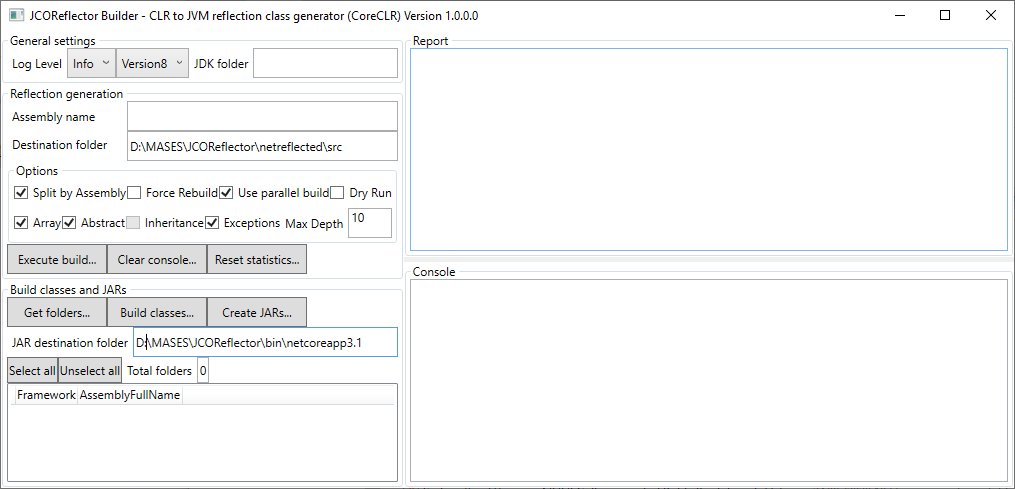
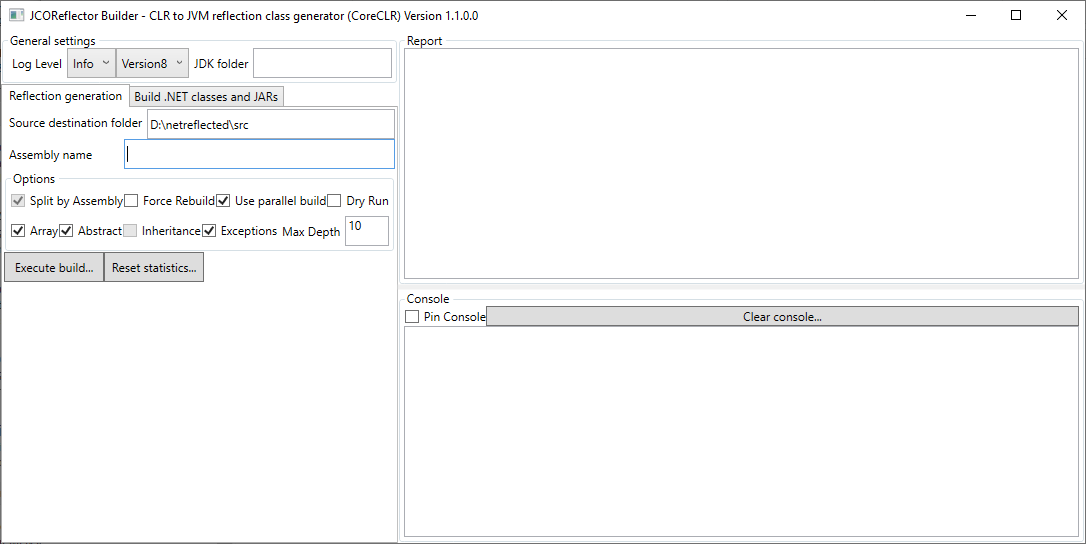
Updates on JCOReflector previews

diff --git a/README.md b/README.md
@@ -74,6 +74,7 @@ The reflector executable, available for both Framework and CoreCLR, is limited i
 
 - Only public Types are available
 - Classes and public accessible methods
+- Interface
 - Enum: enumeration and flags are available
 - .NET exception are translated and thrown in code
 - Static classes are managed
@@ -86,7 +87,6 @@ The reflector executable, available for both Framework and CoreCLR, is limited i
 ### Not implemented in reflector:
 
 - Out/Ref parameters: you need to write code using JCOBridge API
-- Interface
 - Inheritance
 - Generic types
 - Method decoration (Attributes)
@@ -115,7 +115,344 @@ For .NET Framework it is possible to execute:
 > dotnet run --framework net461 JCOReflector\JCOReflectorCore.csproj
 
 ![JCOReflector](/images/jcoreflector.png?raw=true "JCOReflector screenshot")
+![JCOReflector](/images/jcoreflector2.png?raw=true "JCOReflector screenshot")
 
 ## Reflected Assemblies
 
-The folder [netreflected](/netreflected/src) contains all reflected classes.
+The folder [netreflected](/netreflected/src) contains all reflected classes generated for **.NET** **Framework** and **Core**. Below the list of analyzed and reflected assemblies:
+
+### Framework
+
+> * PresentationFramework, Version=4.0.0.0, Culture=neutral, PublicKeyToken=31bf3856ad364e35
+> * mscorlib, Version=4.0.0.0, Culture=neutral, PublicKeyToken=b77a5c561934e089
+> * System.Xaml, Version=4.0.0.0, Culture=neutral, PublicKeyToken=b77a5c561934e089
+> * System, Version=4.0.0.0, Culture=neutral, PublicKeyToken=b77a5c561934e089
+> * System.Configuration, Version=4.0.0.0, Culture=neutral, PublicKeyToken=b03f5f7f11d50a3a
+> * System.Xml, Version=4.0.0.0, Culture=neutral, PublicKeyToken=b77a5c561934e089
+> * System.Data.SqlXml, Version=4.0.0.0, Culture=neutral, PublicKeyToken=b77a5c561934e089
+> * System.Security, Version=4.0.0.0, Culture=neutral, PublicKeyToken=b03f5f7f11d50a3a
+> * System.Core, Version=4.0.0.0, Culture=neutral, PublicKeyToken=b77a5c561934e089
+> * System.Numerics, Version=4.0.0.0, Culture=neutral, PublicKeyToken=b77a5c561934e089
+> * WindowsBase, Version=4.0.0.0, Culture=neutral, PublicKeyToken=31bf3856ad364e35
+> * Accessibility, Version=4.0.0.0, Culture=neutral, PublicKeyToken=b03f5f7f11d50a3a
+> * PresentationCore, Version=4.0.0.0, Culture=neutral, PublicKeyToken=31bf3856ad364e35
+> * UIAutomationTypes, Version=4.0.0.0, Culture=neutral, PublicKeyToken=31bf3856ad364e35
+> * System.Windows.Input.Manipulations, Version=4.0.0.0, Culture=neutral, PublicKeyToken=b77a5c561934e089
+> * UIAutomationProvider, Version=4.0.0.0, Culture=neutral, PublicKeyToken=31bf3856ad364e35
+> * System.Deployment, Version=4.0.0.0, Culture=neutral, PublicKeyToken=b03f5f7f11d50a3a
+> * System.Windows.Forms, Version=4.0.0.0, Culture=neutral, PublicKeyToken=b77a5c561934e089
+> * System.Drawing, Version=4.0.0.0, Culture=neutral, PublicKeyToken=b03f5f7f11d50a3a
+> * System.Runtime.Serialization.Formatters.Soap, Version=4.0.0.0, Culture=neutral, PublicKeyToken=b03f5f7f11d50a3a
+> * ReachFramework, Version=4.0.0.0, Culture=neutral, PublicKeyToken=31bf3856ad364e35
+> * System.Printing, Version=4.0.0.0, Culture=neutral, PublicKeyToken=31bf3856ad364e35
+> * PresentationUI, Version=4.0.0.0, Culture=neutral, PublicKeyToken=31bf3856ad364e35
+> * System.DirectoryServices, Version=4.0.0.0, Culture=neutral, PublicKeyToken=b03f5f7f11d50a3a
+> * System.ServiceModel, Version=4.0.0.0, Culture=neutral, PublicKeyToken=b77a5c561934e089
+> * System.ServiceModel.Internals, Version=4.0.0.0, Culture=neutral, PublicKeyToken=31bf3856ad364e35
+> * System.Runtime.Serialization, Version=4.0.0.0, Culture=neutral, PublicKeyToken=b77a5c561934e089
+> * SMDiagnostics, Version=4.0.0.0, Culture=neutral, PublicKeyToken=b77a5c561934e089
+> * System.IdentityModel, Version=4.0.0.0, Culture=neutral, PublicKeyToken=b77a5c561934e089
+> * System.Web.ApplicationServices, Version=4.0.0.0, Culture=neutral, PublicKeyToken=31bf3856ad364e35
+> * System.Transactions, Version=4.0.0.0, Culture=neutral, PublicKeyToken=b77a5c561934e089
+> * System.EnterpriseServices, Version=4.0.0.0, Culture=neutral, PublicKeyToken=b03f5f7f11d50a3a
+> * System.Runtime.Remoting, Version=4.0.0.0, Culture=neutral, PublicKeyToken=b77a5c561934e089
+> * System.Web, Version=4.0.0.0, Culture=neutral, PublicKeyToken=b03f5f7f11d50a3a
+> * System.Data, Version=4.0.0.0, Culture=neutral, PublicKeyToken=b77a5c561934e089
+> * System.Runtime.Caching, Version=4.0.0.0, Culture=neutral, PublicKeyToken=b03f5f7f11d50a3a
+> * System.Web.RegularExpressions, Version=4.0.0.0, Culture=neutral, PublicKeyToken=b03f5f7f11d50a3a
+> * System.Design, Version=4.0.0.0, Culture=neutral, PublicKeyToken=b03f5f7f11d50a3a
+> * System.Data.OracleClient, Version=4.0.0.0, Culture=neutral, PublicKeyToken=b77a5c561934e089
+> * System.Drawing.Design, Version=4.0.0.0, Culture=neutral, PublicKeyToken=b03f5f7f11d50a3a
+> * System.ComponentModel.DataAnnotations, Version=4.0.0.0, Culture=neutral, PublicKeyToken=31bf3856ad364e35
+> * System.DirectoryServices.Protocols, Version=4.0.0.0, Culture=neutral, PublicKeyToken=b03f5f7f11d50a3a
+> * System.ServiceProcess, Version=4.0.0.0, Culture=neutral, PublicKeyToken=b03f5f7f11d50a3a
+> * System.Configuration.Install, Version=4.0.0.0, Culture=neutral, PublicKeyToken=b03f5f7f11d50a3a
+> * System.Web.Services, Version=4.0.0.0, Culture=neutral, PublicKeyToken=b03f5f7f11d50a3a
+> * Microsoft.Build.Utilities.v4.0, Version=4.0.0.0, Culture=neutral, PublicKeyToken=b03f5f7f11d50a3a
+> * Microsoft.Build.Framework, Version=4.0.0.0, Culture=neutral, PublicKeyToken=b03f5f7f11d50a3a
+> * Microsoft.Build.Tasks.v4.0, Version=4.0.0.0, Culture=neutral, PublicKeyToken=b03f5f7f11d50a3a
+> * Microsoft.Transactions.Bridge, Version=4.0.0.0, Culture=neutral, PublicKeyToken=b03f5f7f11d50a3a
+> * System.IdentityModel.Selectors, Version=4.0.0.0, Culture=neutral, PublicKeyToken=b77a5c561934e089
+> * System.Messaging, Version=4.0.0.0, Culture=neutral, PublicKeyToken=b03f5f7f11d50a3a
+> * System.Xml.Linq, Version=4.0.0.0, Culture=neutral, PublicKeyToken=b77a5c561934e089
+> * System.Runtime.DurableInstancing, Version=4.0.0.0, Culture=neutral, PublicKeyToken=31bf3856ad364e35
+> * System.Net.Http, Version=4.0.0.0, Culture=neutral, PublicKeyToken=b03f5f7f11d50a3a
+> * System.ServiceModel.Activation, Version=4.0.0.0, Culture=neutral, PublicKeyToken=31bf3856ad364e35
+> * System.ServiceModel.Activities, Version=4.0.0.0, Culture=neutral, PublicKeyToken=31bf3856ad364e35
+> * System.Activities, Version=4.0.0.0, Culture=neutral, PublicKeyToken=31bf3856ad364e35
+> * Microsoft.VisualBasic.Activities.Compiler, Version=10.0.0.0, Culture=neutral, PublicKeyToken=b03f5f7f11d50a3a
+> * Microsoft.VisualBasic, Version=10.0.0.0, Culture=neutral, PublicKeyToken=b03f5f7f11d50a3a
+> * System.Management, Version=4.0.0.0, Culture=neutral, PublicKeyToken=b03f5f7f11d50a3a
+> * Microsoft.JScript, Version=10.0.0.0, Culture=neutral, PublicKeyToken=b03f5f7f11d50a3a
+> * System.Activities.DurableInstancing, Version=4.0.0.0, Culture=neutral, PublicKeyToken=31bf3856ad364e35
+> * System.Xaml.Hosting, Version=4.0.0.0, Culture=neutral, PublicKeyToken=31bf3856ad364e35
+> * System.Data.Entity, Version=4.0.0.0, Culture=neutral, PublicKeyToken=b77a5c561934e089
+> * System.Activities.Presentation, Version=4.0.0.0, Culture=neutral, PublicKeyToken=31bf3856ad364e35
+> * WindowsFormsIntegration, Version=4.0.0.0, Culture=neutral, PublicKeyToken=31bf3856ad364e35
+> * System.ComponentModel.Composition, Version=4.0.0.0, Culture=neutral, PublicKeyToken=b77a5c561934e089
+> * System.Net, Version=4.0.0.0, Culture=neutral, PublicKeyToken=b03f5f7f11d50a3a
+> * System.Workflow.Runtime, Version=4.0.0.0, Culture=neutral, PublicKeyToken=31bf3856ad364e35
+> * System.Workflow.ComponentModel, Version=4.0.0.0, Culture=neutral, PublicKeyToken=31bf3856ad364e35
+> * Microsoft.Workflow.Compiler, Version=4.0.0.0, Culture=neutral, PublicKeyToken=31bf3856ad364e35
+> * System.Workflow.Activities, Version=4.0.0.0, Culture=neutral, PublicKeyToken=31bf3856ad364e35
+
+### CoreCLR (reference is .NET Core 3.1)
+
+> * PresentationFramework, Version=4.0.0.0, Culture=neutral, PublicKeyToken=31bf3856ad364e35
+> * System.Runtime, Version=4.2.2.0, Culture=neutral, PublicKeyToken=b03f5f7f11d50a3a
+> * System.Private.CoreLib, Version=4.0.0.0, Culture=neutral, PublicKeyToken=7cec85d7bea7798e
+> * System.Private.Uri, Version=4.0.6.0, Culture=neutral, PublicKeyToken=b03f5f7f11d50a3a
+> * System.Xaml, Version=4.0.0.0, Culture=neutral, PublicKeyToken=b77a5c561934e089
+> * System.Runtime.InteropServices, Version=4.2.2.0, Culture=neutral, PublicKeyToken=b03f5f7f11d50a3a
+> * System.Runtime.Extensions, Version=4.2.2.0, Culture=neutral, PublicKeyToken=b03f5f7f11d50a3a
+> * System.Resources.ResourceManager, Version=4.1.2.0, Culture=neutral, PublicKeyToken=b03f5f7f11d50a3a
+> * System.Collections.Specialized, Version=4.1.2.0, Culture=neutral, PublicKeyToken=b03f5f7f11d50a3a
+> * System.Collections, Version=4.1.2.0, Culture=neutral, PublicKeyToken=b03f5f7f11d50a3a
+> * System.ComponentModel.TypeConverter, Version=4.2.2.0, Culture=neutral, PublicKeyToken=b03f5f7f11d50a3a
+> * System.Net.Security, Version=4.1.2.0, Culture=neutral, PublicKeyToken=b03f5f7f11d50a3a
+> * System.Security.Cryptography.X509Certificates, Version=4.2.2.0, Culture=neutral, PublicKeyToken=b03f5f7f11d50a3a
+> * System.Security.Cryptography.Cng, Version=4.3.3.0, Culture=neutral, PublicKeyToken=b03f5f7f11d50a3a
+> * System.Security.Cryptography.Encoding, Version=4.1.2.0, Culture=neutral, PublicKeyToken=b03f5f7f11d50a3a
+> * System.Security.Cryptography.Primitives, Version=4.1.2.0, Culture=neutral, PublicKeyToken=b03f5f7f11d50a3a
+> * System.Threading, Version=4.1.2.0, Culture=neutral, PublicKeyToken=b03f5f7f11d50a3a
+> * System.Threading.Tasks, Version=4.1.2.0, Culture=neutral, PublicKeyToken=b03f5f7f11d50a3a
+> * System.Diagnostics.Debug, Version=4.1.2.0, Culture=neutral, PublicKeyToken=b03f5f7f11d50a3a
+> * System.Buffers, Version=4.0.2.0, Culture=neutral, PublicKeyToken=cc7b13ffcd2ddd51
+> * System.Memory, Version=4.2.1.0, Culture=neutral, PublicKeyToken=cc7b13ffcd2ddd51
+> * System.Collections.Concurrent, Version=4.0.15.0, Culture=neutral, PublicKeyToken=b03f5f7f11d50a3a
+> * System.Linq, Version=4.2.2.0, Culture=neutral, PublicKeyToken=b03f5f7f11d50a3a
+> * System.Diagnostics.Tools, Version=4.1.2.0, Culture=neutral, PublicKeyToken=b03f5f7f11d50a3a
+> * System.Security.Cryptography.Algorithms, Version=4.3.2.0, Culture=neutral, PublicKeyToken=b03f5f7f11d50a3a
+> * System.Runtime.Numerics, Version=4.1.2.0, Culture=neutral, PublicKeyToken=b03f5f7f11d50a3a
+> * System.Runtime.InteropServices.RuntimeInformation, Version=4.0.4.0, Culture=neutral, PublicKeyToken=b03f5f7f11d50a3a
+> * System.Text.Encoding.Extensions, Version=4.1.2.0, Culture=neutral, PublicKeyToken=b03f5f7f11d50a3a
+> * System.Security.Cryptography.Csp, Version=4.1.2.0, Culture=neutral, PublicKeyToken=b03f5f7f11d50a3a
+> * System.Threading.Thread, Version=4.1.2.0, Culture=neutral, PublicKeyToken=b03f5f7f11d50a3a
+> * System.Net.Primitives, Version=4.1.2.0, Culture=neutral, PublicKeyToken=b03f5f7f11d50a3a
+> * System.Collections.NonGeneric, Version=4.1.2.0, Culture=neutral, PublicKeyToken=b03f5f7f11d50a3a
+> * System.Diagnostics.Tracing, Version=4.2.2.0, Culture=neutral, PublicKeyToken=b03f5f7f11d50a3a
+> * Microsoft.Win32.Primitives, Version=4.1.2.0, Culture=neutral, PublicKeyToken=b03f5f7f11d50a3a
+> * System.IO.FileSystem, Version=4.1.2.0, Culture=neutral, PublicKeyToken=b03f5f7f11d50a3a
+> * System.Security.Principal, Version=4.1.2.0, Culture=neutral, PublicKeyToken=b03f5f7f11d50a3a
+> * System.Security.Principal.Windows, Version=4.1.1.0, Culture=neutral, PublicKeyToken=b03f5f7f11d50a3a
+> * System.Security.Claims, Version=4.1.2.0, Culture=neutral, PublicKeyToken=b03f5f7f11d50a3a
+> * System.Threading.ThreadPool, Version=4.1.2.0, Culture=neutral, PublicKeyToken=b03f5f7f11d50a3a
+> * System.Drawing.Primitives, Version=4.2.1.0, Culture=neutral, PublicKeyToken=b03f5f7f11d50a3a
+> * System.ComponentModel.Primitives, Version=4.2.2.0, Culture=neutral, PublicKeyToken=b03f5f7f11d50a3a
+> * System.ComponentModel, Version=4.0.4.0, Culture=neutral, PublicKeyToken=b03f5f7f11d50a3a
+> * System.Threading.Timer, Version=4.1.2.0, Culture=neutral, PublicKeyToken=b03f5f7f11d50a3a
+> * System.Diagnostics.TraceSource, Version=4.1.2.0, Culture=neutral, PublicKeyToken=b03f5f7f11d50a3a
+> * System.Diagnostics.Process, Version=4.2.2.0, Culture=neutral, PublicKeyToken=b03f5f7f11d50a3a
+> * System.Diagnostics.FileVersionInfo, Version=4.0.4.0, Culture=neutral, PublicKeyToken=b03f5f7f11d50a3a
+> * Microsoft.Win32.Registry, Version=4.1.3.0, Culture=neutral, PublicKeyToken=b03f5f7f11d50a3a
+> * System.Security.AccessControl, Version=4.1.1.0, Culture=neutral, PublicKeyToken=b03f5f7f11d50a3a
+> * System.ObjectModel, Version=4.1.2.0, Culture=neutral, PublicKeyToken=b03f5f7f11d50a3a
+> * System.Runtime.Serialization.Formatters, Version=4.0.4.0, Culture=neutral, PublicKeyToken=b03f5f7f11d50a3a
+> * System.Runtime.CompilerServices.Unsafe, Version=4.0.6.0, Culture=neutral, PublicKeyToken=b03f5f7f11d50a3a
+> * System.Runtime, Version=4.0.0.0, Culture=neutral, PublicKeyToken=b03f5f7f11d50a3a
+> * System.Resources.Writer, Version=4.1.2.0, Culture=neutral, PublicKeyToken=b03f5f7f11d50a3a
+> * System.Xml.XDocument, Version=4.1.2.0, Culture=neutral, PublicKeyToken=b03f5f7f11d50a3a
+> * System.Private.Xml.Linq, Version=4.0.2.0, Culture=neutral, PublicKeyToken=cc7b13ffcd2ddd51
+> * System.Private.Xml, Version=4.0.2.0, Culture=neutral, PublicKeyToken=cc7b13ffcd2ddd51
+> * System.Text.RegularExpressions, Version=4.2.2.0, Culture=neutral, PublicKeyToken=b03f5f7f11d50a3a
+> * System.Reflection.Emit.ILGeneration, Version=4.1.1.0, Culture=neutral, PublicKeyToken=b03f5f7f11d50a3a
+> * System.Reflection.Emit.Lightweight, Version=4.1.1.0, Culture=neutral, PublicKeyToken=b03f5f7f11d50a3a
+> * System.Reflection.Primitives, Version=4.1.2.0, Culture=neutral, PublicKeyToken=b03f5f7f11d50a3a
+> * System.Net.Requests, Version=4.1.2.0, Culture=neutral, PublicKeyToken=b03f5f7f11d50a3a
+> * System.Net.WebHeaderCollection, Version=4.1.2.0, Culture=neutral, PublicKeyToken=b03f5f7f11d50a3a
+> * System.Net.Http, Version=4.2.2.0, Culture=neutral, PublicKeyToken=b03f5f7f11d50a3a
+> * System.Net.Sockets, Version=4.2.2.0, Culture=neutral, PublicKeyToken=b03f5f7f11d50a3a
+> * System.Threading.Overlapped, Version=4.1.2.0, Culture=neutral, PublicKeyToken=b03f5f7f11d50a3a
+> * System.Net.NameResolution, Version=4.1.2.0, Culture=neutral, PublicKeyToken=b03f5f7f11d50a3a
+> * System.Net.NetworkInformation, Version=4.2.2.0, Culture=neutral, PublicKeyToken=b03f5f7f11d50a3a
+> * System.Diagnostics.DiagnosticSource, Version=4.0.5.0, Culture=neutral, PublicKeyToken=cc7b13ffcd2ddd51
+> * System.IO.Compression, Version=4.2.2.0, Culture=neutral, PublicKeyToken=b77a5c561934e089
+> * System.IO.Compression.Brotli, Version=4.2.2.0, Culture=neutral, PublicKeyToken=b77a5c561934e089
+> * System.Net.ServicePoint, Version=4.0.2.0, Culture=neutral, PublicKeyToken=cc7b13ffcd2ddd51
+> * System.Reflection.Emit, Version=4.1.2.0, Culture=neutral, PublicKeyToken=b03f5f7f11d50a3a
+> * System.Linq.Expressions, Version=4.2.2.0, Culture=neutral, PublicKeyToken=b03f5f7f11d50a3a
+> * System.Windows.Extensions, Version=4.0.1.0, Culture=neutral, PublicKeyToken=cc7b13ffcd2ddd51
+> * System.Runtime, Version=4.2.1.0, Culture=neutral, PublicKeyToken=b03f5f7f11d50a3a
+> * System.Runtime.InteropServices, Version=4.2.1.0, Culture=neutral, PublicKeyToken=b03f5f7f11d50a3a
+> * System.Runtime.Extensions, Version=4.2.1.0, Culture=neutral, PublicKeyToken=b03f5f7f11d50a3a
+> * System.Resources.ResourceManager, Version=4.1.1.0, Culture=neutral, PublicKeyToken=b03f5f7f11d50a3a
+> * System.ComponentModel.Primitives, Version=4.2.1.0, Culture=neutral, PublicKeyToken=b03f5f7f11d50a3a
+> * System.ComponentModel.EventBasedAsync, Version=4.1.1.0, Culture=neutral, PublicKeyToken=b03f5f7f11d50a3a
+> * System.Threading, Version=4.1.1.0, Culture=neutral, PublicKeyToken=b03f5f7f11d50a3a
+> * System.Threading.Tasks, Version=4.1.1.0, Culture=neutral, PublicKeyToken=b03f5f7f11d50a3a
+> * System.IO.FileSystem, Version=4.1.1.0, Culture=neutral, PublicKeyToken=b03f5f7f11d50a3a
+> * System.Net.Requests, Version=4.1.1.0, Culture=neutral, PublicKeyToken=b03f5f7f11d50a3a
+> * System.Diagnostics.Debug, Version=4.1.1.0, Culture=neutral, PublicKeyToken=b03f5f7f11d50a3a
+> * System.ComponentModel.TypeConverter, Version=4.2.1.0, Culture=neutral, PublicKeyToken=b03f5f7f11d50a3a
+> * System.Drawing.Common, Version=4.0.2.0, Culture=neutral, PublicKeyToken=cc7b13ffcd2ddd51
+> * System.Drawing.Primitives, Version=4.2.0.0, Culture=neutral, PublicKeyToken=b03f5f7f11d50a3a
+> * System.Diagnostics.TraceSource, Version=4.1.1.0, Culture=neutral, PublicKeyToken=b03f5f7f11d50a3a
+> * Microsoft.Win32.Primitives, Version=4.1.1.0, Culture=neutral, PublicKeyToken=b03f5f7f11d50a3a
+> * System.Threading.Thread, Version=4.1.1.0, Culture=neutral, PublicKeyToken=b03f5f7f11d50a3a
+> * System.ObjectModel, Version=4.1.1.0, Culture=neutral, PublicKeyToken=b03f5f7f11d50a3a
+> * System.Collections, Version=4.1.1.0, Culture=neutral, PublicKeyToken=b03f5f7f11d50a3a
+> * Microsoft.Win32.SystemEvents, Version=4.0.2.0, Culture=neutral, PublicKeyToken=cc7b13ffcd2ddd51
+> * System.Collections.NonGeneric, Version=4.1.1.0, Culture=neutral, PublicKeyToken=b03f5f7f11d50a3a
+> * System.ComponentModel, Version=4.0.3.0, Culture=neutral, PublicKeyToken=b03f5f7f11d50a3a
+> * System.Memory, Version=4.2.0.0, Culture=neutral, PublicKeyToken=cc7b13ffcd2ddd51
+> * System.Security.Cryptography.X509Certificates, Version=4.2.1.0, Culture=neutral, PublicKeyToken=b03f5f7f11d50a3a
+> * System.Xml.ReaderWriter, Version=4.2.2.0, Culture=neutral, PublicKeyToken=b03f5f7f11d50a3a
+> * System.Security.Permissions, Version=4.0.3.0, Culture=neutral, PublicKeyToken=cc7b13ffcd2ddd51
+> * System.Security.Cryptography.Primitives, Version=4.1.1.0, Culture=neutral, PublicKeyToken=b03f5f7f11d50a3a
+> * System.Security.Cryptography.Csp, Version=4.1.1.0, Culture=neutral, PublicKeyToken=b03f5f7f11d50a3a
+> * System.Security.Principal, Version=4.1.1.0, Culture=neutral, PublicKeyToken=b03f5f7f11d50a3a
+> * System.Text.RegularExpressions, Version=4.2.1.0, Culture=neutral, PublicKeyToken=b03f5f7f11d50a3a
+> * System.Data.Common, Version=4.2.1.0, Culture=neutral, PublicKeyToken=b03f5f7f11d50a3a
+> * System.Xml.XmlSerializer, Version=4.1.2.0, Culture=neutral, PublicKeyToken=b03f5f7f11d50a3a
+> * System.Transactions.Local, Version=4.0.2.0, Culture=neutral, PublicKeyToken=cc7b13ffcd2ddd51
+> * WindowsBase, Version=4.0.0.0, Culture=neutral, PublicKeyToken=31bf3856ad364e35
+> * Accessibility, Version=4.0.0.0, Culture=neutral, PublicKeyToken=31bf3856ad364e35
+> * System.Runtime.InteropServices, Version=4.0.0.0, Culture=neutral, PublicKeyToken=b03f5f7f11d50a3a
+> * System.IO.Packaging, Version=4.0.5.0, Culture=neutral, PublicKeyToken=b03f5f7f11d50a3a
+> * netstandard, Version=2.0.0.0, Culture=neutral, PublicKeyToken=cc7b13ffcd2ddd51
+> * System.IO.MemoryMappedFiles, Version=4.1.2.0, Culture=neutral, PublicKeyToken=b03f5f7f11d50a3a
+> * System.IO.Pipes, Version=4.1.2.0, Culture=neutral, PublicKeyToken=b03f5f7f11d50a3a
+> * System.ComponentModel.EventBasedAsync, Version=4.1.2.0, Culture=neutral, PublicKeyToken=b03f5f7f11d50a3a
+> * System.Console, Version=4.1.2.0, Culture=neutral, PublicKeyToken=b03f5f7f11d50a3a
+> * System.Data.Common, Version=4.2.2.0, Culture=neutral, PublicKeyToken=b03f5f7f11d50a3a
+> * System.Diagnostics.Contracts, Version=4.0.4.0, Culture=neutral, PublicKeyToken=b03f5f7f11d50a3a
+> * System.Diagnostics.TextWriterTraceListener, Version=4.1.2.0, Culture=neutral, PublicKeyToken=b03f5f7f11d50a3a
+> * System.Diagnostics.StackTrace, Version=4.1.2.0, Culture=neutral, PublicKeyToken=b03f5f7f11d50a3a
+> * System.Reflection.Metadata, Version=1.4.5.0, Culture=neutral, PublicKeyToken=b03f5f7f11d50a3a
+> * System.Collections.Immutable, Version=1.2.5.0, Culture=neutral, PublicKeyToken=b03f5f7f11d50a3a
+> * System.IO.Compression.ZipFile, Version=4.0.5.0, Culture=neutral, PublicKeyToken=b77a5c561934e089
+> * System.IO.FileSystem.DriveInfo, Version=4.1.2.0, Culture=neutral, PublicKeyToken=b03f5f7f11d50a3a
+> * System.IO.FileSystem.Watcher, Version=4.1.2.0, Culture=neutral, PublicKeyToken=b03f5f7f11d50a3a
+> * System.IO.IsolatedStorage, Version=4.1.2.0, Culture=neutral, PublicKeyToken=b03f5f7f11d50a3a
+> * System.IO.FileSystem.AccessControl, Version=4.0.5.0, Culture=neutral, PublicKeyToken=b03f5f7f11d50a3a
+> * System.Linq.Queryable, Version=4.0.4.0, Culture=neutral, PublicKeyToken=b03f5f7f11d50a3a
+> * System.Linq.Parallel, Version=4.0.4.0, Culture=neutral, PublicKeyToken=b03f5f7f11d50a3a
+> * System.Net.HttpListener, Version=4.0.2.0, Culture=neutral, PublicKeyToken=cc7b13ffcd2ddd51
+> * System.Net.WebSockets, Version=4.1.2.0, Culture=neutral, PublicKeyToken=b03f5f7f11d50a3a
+> * System.Numerics.Vectors, Version=4.1.6.0, Culture=neutral, PublicKeyToken=b03f5f7f11d50a3a
+> * System.Net.WebClient, Version=4.0.2.0, Culture=neutral, PublicKeyToken=cc7b13ffcd2ddd51
+> * System.Net.WebProxy, Version=4.0.2.0, Culture=neutral, PublicKeyToken=cc7b13ffcd2ddd51
+> * System.Net.Mail, Version=4.0.2.0, Culture=neutral, PublicKeyToken=cc7b13ffcd2ddd51
+> * System.Net.Ping, Version=4.1.2.0, Culture=neutral, PublicKeyToken=b03f5f7f11d50a3a
+> * System.Net.WebSockets.Client, Version=4.1.2.0, Culture=neutral, PublicKeyToken=b03f5f7f11d50a3a
+> * System.Reflection.DispatchProxy, Version=4.0.6.0, Culture=neutral, PublicKeyToken=b03f5f7f11d50a3a
+> * System.Runtime.CompilerServices.VisualC, Version=4.1.2.0, Culture=neutral, PublicKeyToken=b03f5f7f11d50a3a
+> * System.Runtime.Serialization.Primitives, Version=4.2.2.0, Culture=neutral, PublicKeyToken=b03f5f7f11d50a3a
+> * System.Runtime.Serialization.Xml, Version=4.1.5.0, Culture=neutral, PublicKeyToken=b03f5f7f11d50a3a
+> * System.Private.DataContractSerialization, Version=4.1.5.0, Culture=neutral, PublicKeyToken=b03f5f7f11d50a3a
+> * System.Runtime.Serialization.Json, Version=4.0.5.0, Culture=neutral, PublicKeyToken=b03f5f7f11d50a3a
+> * System.Threading.Tasks.Parallel, Version=4.0.4.0, Culture=neutral, PublicKeyToken=b03f5f7f11d50a3a
+> * System.Web.HttpUtility, Version=4.0.2.0, Culture=neutral, PublicKeyToken=cc7b13ffcd2ddd51
+> * System.Xml.XPath.XDocument, Version=4.1.2.0, Culture=neutral, PublicKeyToken=b03f5f7f11d50a3a
+> * System.Xml.XPath, Version=4.1.2.0, Culture=neutral, PublicKeyToken=b03f5f7f11d50a3a
+> * System.Security.Cryptography.Xml, Version=4.0.3.0, Culture=neutral, PublicKeyToken=cc7b13ffcd2ddd51
+> * System.Security.Cryptography.Pkcs, Version=4.0.3.2, Culture=neutral, PublicKeyToken=b03f5f7f11d50a3a
+> * System.Security.Cryptography.Encoding, Version=4.1.1.0, Culture=neutral, PublicKeyToken=b03f5f7f11d50a3a
+> * System.Security.Cryptography.Algorithms, Version=4.3.1.0, Culture=neutral, PublicKeyToken=b03f5f7f11d50a3a
+> * System.Runtime.Numerics, Version=4.1.1.0, Culture=neutral, PublicKeyToken=b03f5f7f11d50a3a
+> * System.Linq, Version=4.2.1.0, Culture=neutral, PublicKeyToken=b03f5f7f11d50a3a
+> * System.Text.Encoding.Extensions, Version=4.1.1.0, Culture=neutral, PublicKeyToken=b03f5f7f11d50a3a
+> * System.Configuration.ConfigurationManager, Version=4.0.3.0, Culture=neutral, PublicKeyToken=cc7b13ffcd2ddd51
+> * System.Security.Cryptography.ProtectedData, Version=4.0.5.0, Culture=neutral, PublicKeyToken=b03f5f7f11d50a3a
+> * System.Memory, Version=4.0.1.1, Culture=neutral, PublicKeyToken=cc7b13ffcd2ddd51
+> * System.Diagnostics.EventLog, Version=4.0.2.0, Culture=neutral, PublicKeyToken=cc7b13ffcd2ddd51
+> * System.Runtime, Version=4.2.0.0, Culture=neutral, PublicKeyToken=b03f5f7f11d50a3a
+> * System.Runtime.InteropServices, Version=4.2.0.0, Culture=neutral, PublicKeyToken=b03f5f7f11d50a3a
+> * System.Runtime.Extensions, Version=4.2.0.0, Culture=neutral, PublicKeyToken=b03f5f7f11d50a3a
+> * System.Resources.ResourceManager, Version=4.1.0.0, Culture=neutral, PublicKeyToken=b03f5f7f11d50a3a
+> * System.ComponentModel.TypeConverter, Version=4.2.0.0, Culture=neutral, PublicKeyToken=b03f5f7f11d50a3a
+> * System.ComponentModel.Primitives, Version=4.2.0.0, Culture=neutral, PublicKeyToken=b03f5f7f11d50a3a
+> * System.Threading, Version=4.1.0.0, Culture=neutral, PublicKeyToken=b03f5f7f11d50a3a
+> * System.Collections, Version=4.1.0.0, Culture=neutral, PublicKeyToken=b03f5f7f11d50a3a
+> * System.Collections.Specialized, Version=4.1.0.0, Culture=neutral, PublicKeyToken=b03f5f7f11d50a3a
+> * Microsoft.Win32.Primitives, Version=4.1.0.0, Culture=neutral, PublicKeyToken=b03f5f7f11d50a3a
+> * System.Threading.ThreadPool, Version=4.1.0.0, Culture=neutral, PublicKeyToken=b03f5f7f11d50a3a
+> * System.Diagnostics.TraceSource, Version=4.1.0.0, Culture=neutral, PublicKeyToken=b03f5f7f11d50a3a
+> * System.IO.FileSystem, Version=4.1.0.0, Culture=neutral, PublicKeyToken=b03f5f7f11d50a3a
+> * System.Threading.Thread, Version=4.1.0.0, Culture=neutral, PublicKeyToken=b03f5f7f11d50a3a
+> * System.Threading.Tasks, Version=4.1.0.0, Culture=neutral, PublicKeyToken=b03f5f7f11d50a3a
+> * PresentationCore, Version=4.0.0.0, Culture=neutral, PublicKeyToken=31bf3856ad364e35
+> * mscorlib, Version=4.0.0.0, Culture=neutral, PublicKeyToken=b77a5c561934e089
+> * System.Security.Principal.Windows, Version=4.1.3.0, Culture=neutral, PublicKeyToken=b03f5f7f11d50a3a
+> * System.Security.AccessControl, Version=4.1.3.0, Culture=neutral, PublicKeyToken=b03f5f7f11d50a3a
+> * System.Threading.AccessControl, Version=4.0.5.0, Culture=neutral, PublicKeyToken=b03f5f7f11d50a3a
+> * DirectWriteForwarder, Version=4.0.0.0, Culture=neutral, PublicKeyToken=31bf3856ad364e35
+> * Microsoft.CSharp, Version=4.0.0.0, Culture=neutral, PublicKeyToken=b03f5f7f11d50a3a
+> * Microsoft.VisualBasic.Core, Version=10.0.5.0, Culture=neutral, PublicKeyToken=b03f5f7f11d50a3a
+> * Microsoft.VisualBasic, Version=10.0.0.0, Culture=neutral, PublicKeyToken=b03f5f7f11d50a3a
+> * netstandard, Version=2.1.0.0, Culture=neutral, PublicKeyToken=cc7b13ffcd2ddd51
+> * System.AppContext, Version=4.2.2.0, Culture=neutral, PublicKeyToken=b03f5f7f11d50a3a
+> * System.ComponentModel.Annotations, Version=4.3.1.0, Culture=neutral, PublicKeyToken=b03f5f7f11d50a3a
+> * System.ComponentModel.DataAnnotations, Version=4.0.0.0, Culture=neutral, PublicKeyToken=31bf3856ad364e35
+> * System.Configuration, Version=4.0.0.0, Culture=neutral, PublicKeyToken=b03f5f7f11d50a3a
+> * System.Core, Version=4.0.0.0, Culture=neutral, PublicKeyToken=b77a5c561934e089
+> * System.Diagnostics.PerformanceCounter, Version=4.0.2.0, Culture=neutral, PublicKeyToken=cc7b13ffcd2ddd51
+> * System.IO.MemoryMappedFiles, Version=4.1.0.0, Culture=neutral, PublicKeyToken=b03f5f7f11d50a3a
+> * System.Diagnostics.Process, Version=4.2.0.0, Culture=neutral, PublicKeyToken=b03f5f7f11d50a3a
+> * System.Collections.NonGeneric, Version=4.1.0.0, Culture=neutral, PublicKeyToken=b03f5f7f11d50a3a
+> * System.IO.Pipes.AccessControl, Version=4.0.3.0, Culture=neutral, PublicKeyToken=b03f5f7f11d50a3a
+> * System.Data.DataSetExtensions, Version=4.0.1.0, Culture=neutral, PublicKeyToken=b77a5c561934e089
+> * System.Data, Version=4.0.0.0, Culture=neutral, PublicKeyToken=b77a5c561934e089
+> * System.Data.SqlClient, Version=4.6.1.0, Culture=neutral, PublicKeyToken=b03f5f7f11d50a3a
+> * System.Data.Odbc, Version=4.0.2.0, Culture=neutral, PublicKeyToken=cc7b13ffcd2ddd51
+> * System.Data.OleDb, Version=4.0.1.0, Culture=neutral, PublicKeyToken=31bf3856ad364e35
+> * System, Version=4.0.0.0, Culture=neutral, PublicKeyToken=b77a5c561934e089
+> * System.CodeDom, Version=4.0.3.0, Culture=neutral, PublicKeyToken=cc7b13ffcd2ddd51
+> * System.IO.Ports, Version=4.0.3.0, Culture=neutral, PublicKeyToken=cc7b13ffcd2ddd51
+> * System.Drawing, Version=4.0.0.0, Culture=neutral, PublicKeyToken=b03f5f7f11d50a3a
+> * System.Windows.Forms, Version=4.0.0.0, Culture=neutral, PublicKeyToken=b77a5c561934e089
+> * System.Windows.Forms.Design, Version=4.0.0.0, Culture=neutral, PublicKeyToken=b77a5c561934e089
+> * System.Windows.Forms.Design.Editors, Version=4.0.0.0, Culture=neutral, PublicKeyToken=b77a5c561934e089
+> * System.Dynamic.Runtime, Version=4.1.2.0, Culture=neutral, PublicKeyToken=b03f5f7f11d50a3a
+> * System.Globalization.Calendars, Version=4.1.2.0, Culture=neutral, PublicKeyToken=b03f5f7f11d50a3a
+> * System.Globalization, Version=4.1.2.0, Culture=neutral, PublicKeyToken=b03f5f7f11d50a3a
+> * System.Globalization.Extensions, Version=4.1.2.0, Culture=neutral, PublicKeyToken=b03f5f7f11d50a3a
+> * System.IO.Compression.FileSystem, Version=4.0.0.0, Culture=neutral, PublicKeyToken=b77a5c561934e089
+> * System.IO, Version=4.2.2.0, Culture=neutral, PublicKeyToken=b03f5f7f11d50a3a
+> * System.IO.FileSystem.Primitives, Version=4.1.2.0, Culture=neutral, PublicKeyToken=b03f5f7f11d50a3a
+> * System.IO.UnmanagedMemoryStream, Version=4.1.2.0, Culture=neutral, PublicKeyToken=b03f5f7f11d50a3a
+> * System.Net, Version=4.0.0.0, Culture=neutral, PublicKeyToken=b03f5f7f11d50a3a
+> * System.Numerics, Version=4.0.0.0, Culture=neutral, PublicKeyToken=b77a5c561934e089
+> * System.Reflection, Version=4.2.2.0, Culture=neutral, PublicKeyToken=b03f5f7f11d50a3a
+> * System.Reflection.Extensions, Version=4.1.2.0, Culture=neutral, PublicKeyToken=b03f5f7f11d50a3a
+> * System.Reflection.TypeExtensions, Version=4.1.2.0, Culture=neutral, PublicKeyToken=b03f5f7f11d50a3a
+> * System.Resources.Reader, Version=4.1.2.0, Culture=neutral, PublicKeyToken=b03f5f7f11d50a3a
+> * System.Runtime.Handles, Version=4.1.2.0, Culture=neutral, PublicKeyToken=b03f5f7f11d50a3a
+> * System.Runtime.InteropServices.WindowsRuntime, Version=4.0.4.0, Culture=neutral, PublicKeyToken=b03f5f7f11d50a3a
+> * System.Runtime.Intrinsics, Version=4.0.1.0, Culture=neutral, PublicKeyToken=cc7b13ffcd2ddd51
+> * System.Runtime.Loader, Version=4.1.1.0, Culture=neutral, PublicKeyToken=b03f5f7f11d50a3a
+> * System.Runtime.Serialization, Version=4.0.0.0, Culture=neutral, PublicKeyToken=b77a5c561934e089
+> * System.Security, Version=4.0.0.0, Culture=neutral, PublicKeyToken=b03f5f7f11d50a3a
+> * System.Security.Cryptography.Pkcs, Version=4.1.1.0, Culture=neutral, PublicKeyToken=b03f5f7f11d50a3a
+> * System.Security.SecureString, Version=4.1.2.0, Culture=neutral, PublicKeyToken=b03f5f7f11d50a3a
+> * System.ServiceModel.Web, Version=4.0.0.0, Culture=neutral, PublicKeyToken=31bf3856ad364e35
+> * System.ServiceModel.Syndication, Version=4.0.2.0, Culture=neutral, PublicKeyToken=cc7b13ffcd2ddd51
+> * System.ServiceProcess, Version=4.0.0.0, Culture=neutral, PublicKeyToken=b03f5f7f11d50a3a
+> * System.ServiceProcess.ServiceController, Version=4.2.3.0, Culture=neutral, PublicKeyToken=b03f5f7f11d50a3a
+> * System.Text.Encoding.CodePages, Version=4.1.3.0, Culture=neutral, PublicKeyToken=b03f5f7f11d50a3a
+> * System.Text.Encoding, Version=4.1.2.0, Culture=neutral, PublicKeyToken=b03f5f7f11d50a3a
+> * System.Text.Encodings.Web, Version=4.0.5.0, Culture=neutral, PublicKeyToken=cc7b13ffcd2ddd51
+> * System.Text.Json, Version=4.0.1.0, Culture=neutral, PublicKeyToken=cc7b13ffcd2ddd51
+> * System.Threading.Channels, Version=4.0.2.0, Culture=neutral, PublicKeyToken=cc7b13ffcd2ddd51
+> * System.Threading.Tasks.Dataflow, Version=4.6.5.0, Culture=neutral, PublicKeyToken=b03f5f7f11d50a3a
+> * System.Threading.Tasks.Extensions, Version=4.3.1.0, Culture=neutral, PublicKeyToken=cc7b13ffcd2ddd51
+> * System.Transactions, Version=4.0.0.0, Culture=neutral, PublicKeyToken=b77a5c561934e089
+> * System.ValueTuple, Version=4.0.3.0, Culture=neutral, PublicKeyToken=cc7b13ffcd2ddd51
+> * System.Web, Version=4.0.0.0, Culture=neutral, PublicKeyToken=b03f5f7f11d50a3a
+> * System.Windows, Version=4.0.0.0, Culture=neutral, PublicKeyToken=b03f5f7f11d50a3a
+> * System.Xml, Version=4.0.0.0, Culture=neutral, PublicKeyToken=b77a5c561934e089
+> * System.Xml.Linq, Version=4.0.0.0, Culture=neutral, PublicKeyToken=b77a5c561934e089
+> * System.Xml.Serialization, Version=4.0.0.0, Culture=neutral, PublicKeyToken=b77a5c561934e089
+> * System.Xml.XmlDocument, Version=4.1.2.0, Culture=neutral, PublicKeyToken=b03f5f7f11d50a3a
+> * UIAutomationTypes, Version=4.0.0.0, Culture=neutral, PublicKeyToken=31bf3856ad364e35
+> * UIAutomationProvider, Version=4.0.0.0, Culture=neutral, PublicKeyToken=31bf3856ad364e35
+> * System.Windows.Input.Manipulations, Version=4.0.0.0, Culture=neutral, PublicKeyToken=b77a5c561934e089
+> * ReachFramework, Version=4.0.0.0, Culture=neutral, PublicKeyToken=31bf3856ad364e35
+> * System.Printing, Version=4.0.0.0, Culture=neutral, PublicKeyToken=31bf3856ad364e35
+> * PresentationUI, Version=4.0.0.0, Culture=neutral, PublicKeyToken=31bf3856ad364e35
+> * System.DirectoryServices, Version=4.0.0.0, Culture=neutral, PublicKeyToken=b03f5f7f11d50a3a
+> * System.Net.Primitives, Version=4.1.0.0, Culture=neutral, PublicKeyToken=b03f5f7f11d50a3a
+> * System.Net.NameResolution, Version=4.1.0.0, Culture=neutral, PublicKeyToken=b03f5f7f11d50a3a
+> * System.Security.Cryptography.Algorithms, Version=4.3.0.0, Culture=neutral, PublicKeyToken=b03f5f7f11d50a3a
+> * System.Security.Claims, Version=4.1.0.0, Culture=neutral, PublicKeyToken=b03f5f7f11d50a3a
+> * System.Net.Security, Version=4.1.0.0, Culture=neutral, PublicKeyToken=b03f5f7f11d50a3a
